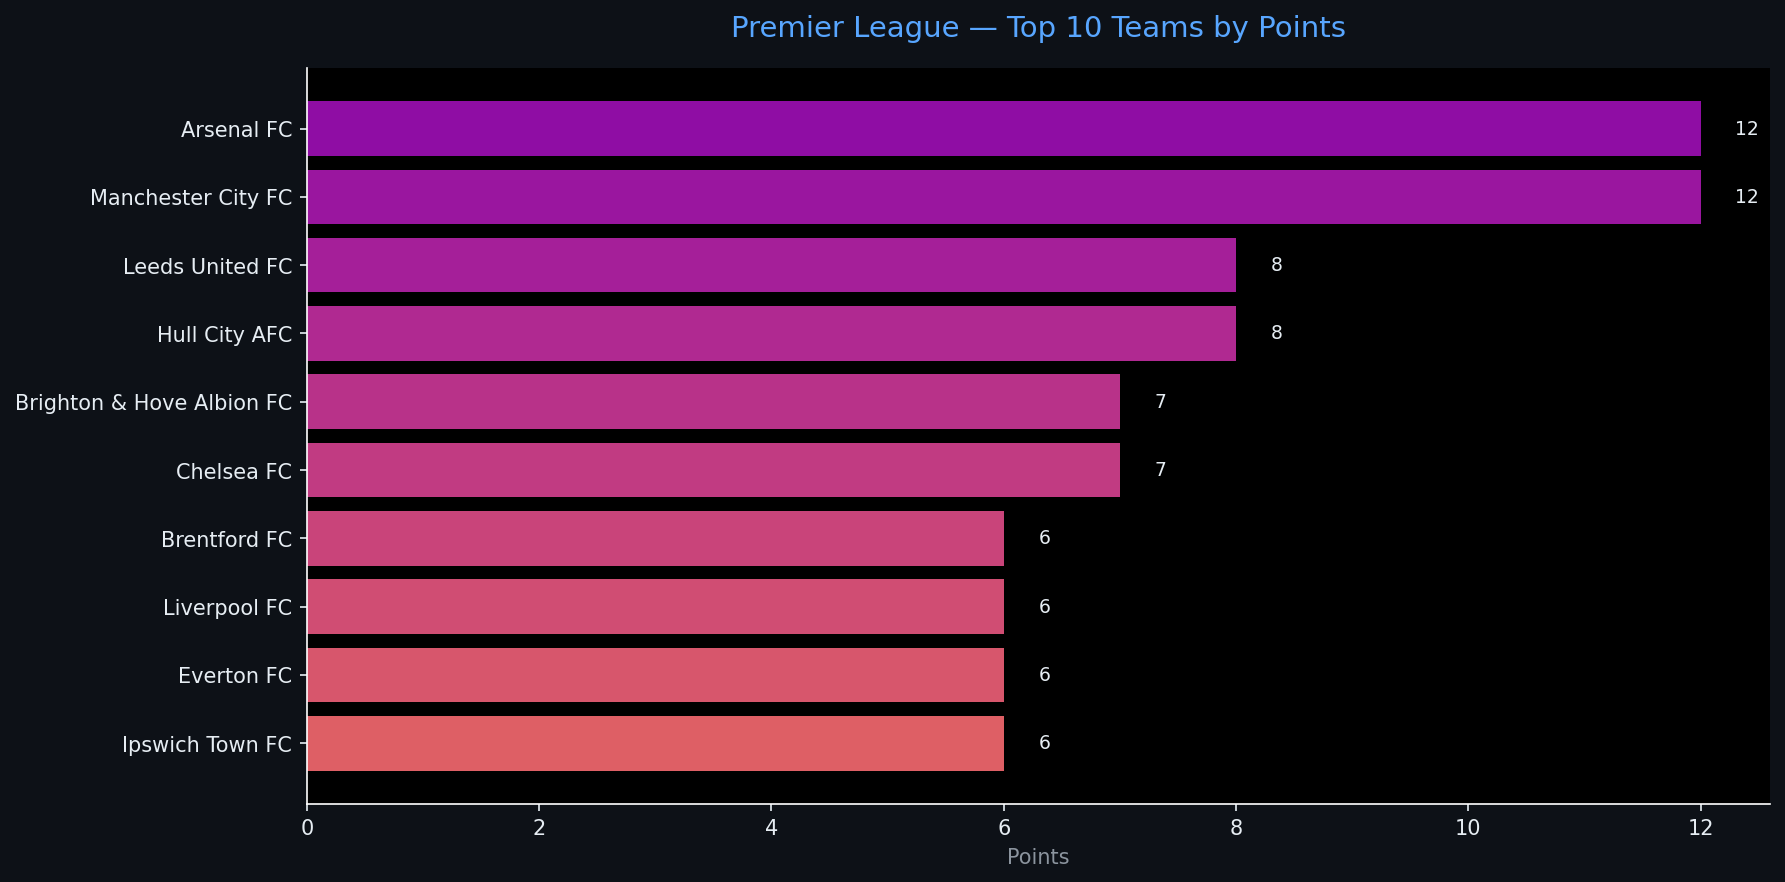
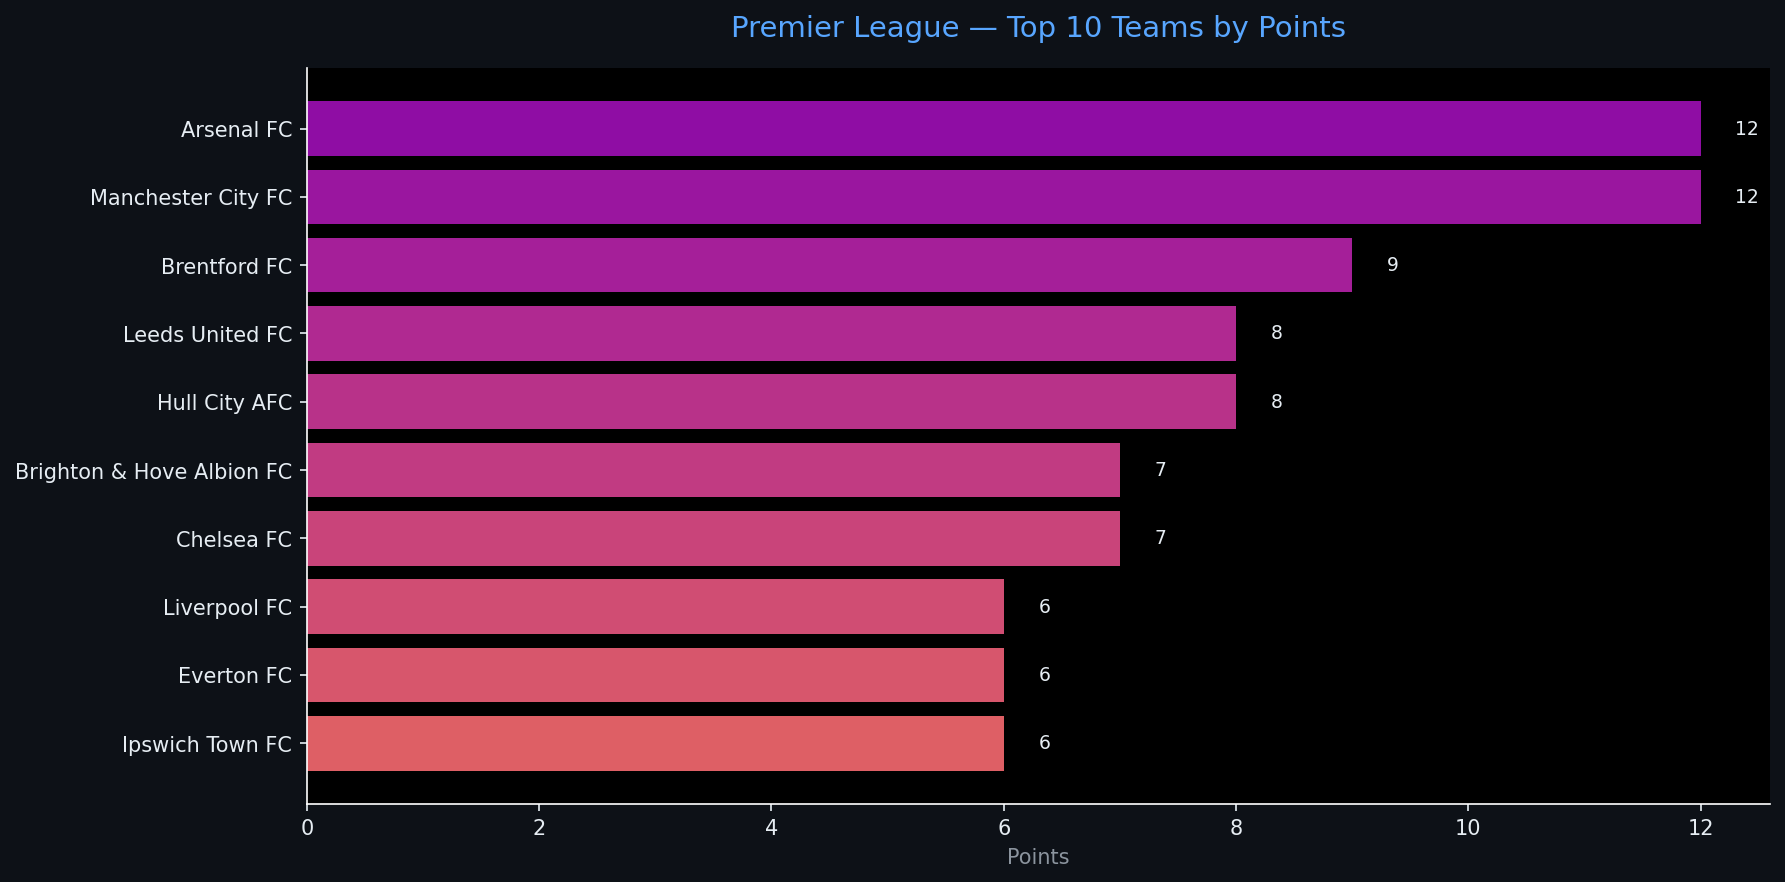
Automated ETL data update: 2026-09-18 22:08

diff --git a/reports/pipeline_report.html b/reports/pipeline_report.html
@@ -4,7 +4,7 @@
 <head>
     <meta charset="UTF-8">
     <meta name="viewport" content="width=device-width, initial-scale=1.0">
-    <title>Sports Data Pipeline Report — 2026-09-18 18:46</title>
+    <title>Sports Data Pipeline Report — 2026-09-18 22:08</title>
     <style>
         body { font-family: 'Segoe UI', sans-serif; background: #0d1117; color: #e6edf3; margin: 0; padding: 2rem; }
         h1   { color: #58a6ff; border-bottom: 1px solid #30363d; padding-bottom: 0.5rem; }
@@ -20,7 +20,7 @@
 </head>
 <body>
     <h1>⚽ Sports Data Pipeline — Automated Report</h1>
-    <p class="meta">Generated: 2026-09-18 18:46 UTC &nbsp;|&nbsp; Sport: <strong>football</strong> &nbsp;|&nbsp; Rows: <strong>20</strong></p>
+    <p class="meta">Generated: 2026-09-18 22:08 UTC &nbsp;|&nbsp; Sport: <strong>football</strong> &nbsp;|&nbsp; Rows: <strong>20</strong></p>
     <span class="badge">Pipeline v1.0.0</span>
     <h2>📊 Data Table</h2>
     <table class="dataframe data-table">
@@ -74,6 +74,21 @@
     </tr>
     <tr>
       <td>3</td>
+      <td>Brentford FC</td>
+      <td>5</td>
+      <td>9</td>
+      <td>2</td>
+      <td>3</td>
+      <td>0</td>
+      <td>10</td>
+      <td>4</td>
+      <td>0.400</td>
+      <td>1.800</td>
+      <td>0.862</td>
+      <td>NaN</td>
+    </tr>
+    <tr>
+      <td>4</td>
       <td>Leeds United FC</td>
       <td>4</td>
       <td>8</td>
@@ -88,7 +103,7 @@
       <td>NaN</td>
     </tr>
     <tr>
-      <td>4</td>
+      <td>5</td>
       <td>Hull City AFC</td>
       <td>4</td>
       <td>8</td>
@@ -103,7 +118,7 @@
       <td>NaN</td>
     </tr>
     <tr>
-      <td>5</td>
+      <td>6</td>
       <td>Brighton &amp; Hove Albion FC</td>
       <td>4</td>
       <td>7</td>
@@ -118,33 +133,18 @@
       <td>NaN</td>
     </tr>
     <tr>
-      <td>6</td>
+      <td>7</td>
       <td>Chelsea FC</td>
-      <td>4</td>
+      <td>5</td>
       <td>7</td>
       <td>2</td>
       <td>1</td>
-      <td>1</td>
+      <td>2</td>
       <td>10</td>
-      <td>9</td>
-      <td>0.500</td>
-      <td>1.750</td>
-      <td>0.552</td>
-      <td>NaN</td>
-    </tr>
-    <tr>
-      <td>7</td>
-      <td>Brentford FC</td>
-      <td>4</td>
-      <td>6</td>
-      <td>1</td>
-      <td>3</td>
-      <td>0</td>
-      <td>7</td>
-      <td>4</td>
-      <td>0.250</td>
-      <td>1.500</td>
-      <td>0.754</td>
+      <td>12</td>
+      <td>0.400</td>
+      <td>1.400</td>
+      <td>0.410</td>
       <td>NaN</td>
     </tr>
     <tr>
@@ -362,7 +362,7 @@
         
         <tr><td>Null Values</td><td>90</td></tr>
         
-        <tr><td>Run Timestamp (UTC)</td><td>2026-09-18T18:46:41.985500</td></tr>
+        <tr><td>Run Timestamp (UTC)</td><td>2026-09-18T22:08:51.673399</td></tr>
         
         <tr><td>ML Features Ready</td><td>False</td></tr>
         
